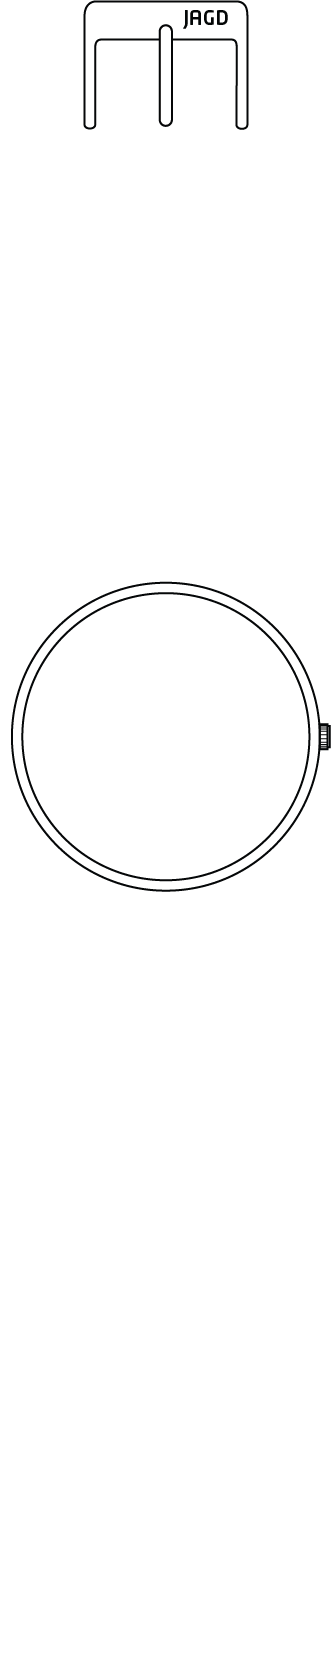
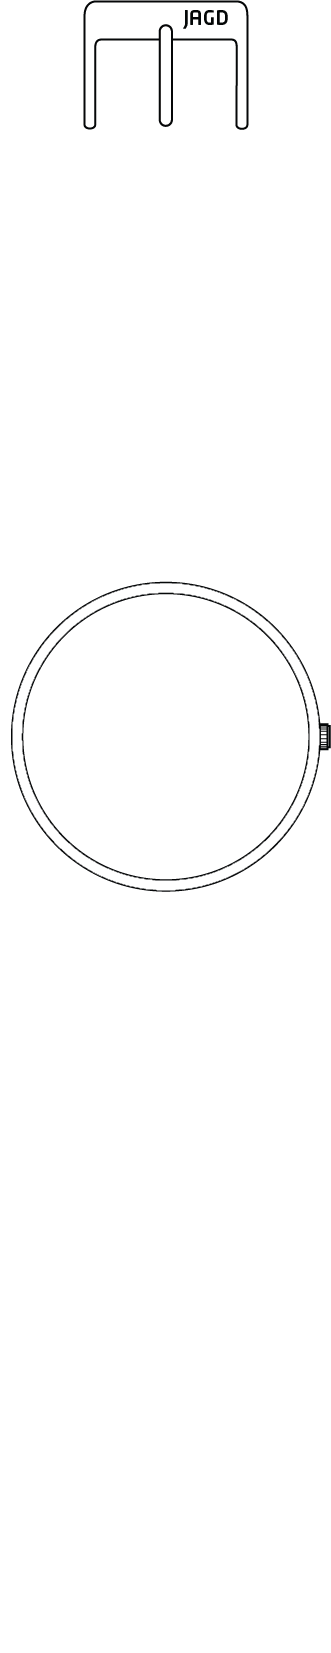
Added loader overlay, fixed outline images, and added backside in full view dialog

diff --git a/js/watchBuilder.js b/js/watchBuilder.js
@@ -19,6 +19,8 @@ WatchBuilder = (function($) {
 
     var builder = {
 
+        newUser: true,
+
         el: {},
 
         variables: {
@@ -113,8 +115,8 @@ WatchBuilder = (function($) {
             self.handleCookieNotice();
             if(Cookies.get('userID') == undefined){
                 Cookies.set('userID', generateUUID(), {expires: 30, path: '/'});
-                self.animateIntro();
             } else {
+                self.newUser = false;
                 self.enterStep1();
             }
         },
@@ -795,22 +797,23 @@ WatchBuilder = (function($) {
 
         animateIntro: function () {
             var self = builder;
-
-            var func = function () {
-                var i = 0;
-                var innerFunc = function () {
-                    self.el.rightArrow.trigger('click');
-                    i++;
-                    if(i < self.variables.introNoOfChanges){
-                        setTimeout(innerFunc, self.variables.introChangeInterval);
-                    } else {
-                        self.enterStep1();
-                    }
+            if(self.newUser) {
+                var func = function () {
+                    var i = 0;
+                    var innerFunc = function () {
+                        self.el.rightArrow.trigger('click');
+                        i++;
+                        if (i < self.variables.introNoOfChanges) {
+                            setTimeout(innerFunc, self.variables.introChangeInterval);
+                        } else {
+                            self.enterStep1();
+                        }
+                    };
+                    innerFunc();
                 };
-                innerFunc();
-            };
 
-            setTimeout(func, self.variables.introDelay);
+                setTimeout(func, self.variables.introDelay);
+            }
         },
 
         handleCookieNotice: function () {
@@ -843,6 +846,10 @@ WatchBuilder = (function($) {
 
         positionFooter: function() {
             builder.positionFooter();
+        },
+
+        startIntro: function(){
+            builder.animateIntro();
         }
     };
 

diff --git a/css/style.css b/css/style.css
@@ -915,6 +915,15 @@ body, html {
     display: table-cell;
 }
 
+#cover {
+    position: fixed;
+    width: 100%;
+    height: 100%;
+    opacity: 0.99;
+    z-index: 20000;
+    background: white url("../images/spinner-1.gif") center center no-repeat;
+}
+
 /**************************/
 /* Containers             */
 /**************************/
@@ -1801,20 +1810,24 @@ a.fancybox {
     height: 100%;
     width: auto;
     top: 0;
-    left: 35%;
+    left: 10%;
 }
 
 .fullViewContainer .watchElement.step2WatchElement {
     width: 26%;
     height: auto;
     top: 223px;
-    left: 37.5%;
+    left: 12.5%;
 }
 
 .fullViewContainer .watchElement.watchPattern {
     height: 114px;
     top: 218px;
-    left: 145px;
+    left: 45px;
+}
+
+.fullViewContainer .watchElement.backElement {
+    left: 60%;
 }
 
 .ui-dialog {

diff --git a/js/builder.js b/js/builder.js
@@ -21,6 +21,8 @@ $(function(){
             alwaysShowScrollbar: 2,
             autoDraggerLength: true
         });
+        $('#cover').hide();
+        WatchBuilder.startIntro();
     });
 
     $(window).bind("load", function() {

diff --git a/watchBuilder.php b/watchBuilder.php
@@ -646,6 +646,27 @@ include("phpScripts/Preprocessing.php");
             }
             ?>
         </div>
+        <div class="watchElementContainer">
+            <?php
+            foreach($watchCaseBackMains as $main){
+                echo "<img src='$main' class='watchCase watchElement largeWatchElement backElement' data-partType='" . pathinfo($main,PATHINFO_FILENAME) . "'>";
+            }
+            ?>
+        </div>
+        <div class="watchElementContainer">
+            <?php
+            foreach($watchStrapEndingsMains as $main){
+                echo "<img src='$main' class='watchStrap watchElement largeWatchElement backElement' data-partType='" . pathinfo($main,PATHINFO_FILENAME) . "'>";
+            }
+            ?>
+        </div>
+        <div class="watchElementContainer">
+            <?php
+            foreach($watchStrapMains as $main){
+                echo "<img src='$main' class='watchStrap watchElement largeWatchElement backElement' data-partType='" . pathinfo($main,PATHINFO_FILENAME) . "'>";
+            }
+            ?>
+        </div>
     </div>
 
 </div>
@@ -656,6 +677,9 @@ include("phpScripts/Preprocessing.php");
 
 <div id="invalidSelectionsModal" title="INVALID SELECTIONS">
     <p>You must choose a <b>strap</b> and a <b>watch casing</b> in order to continue</p>
+</div>
+
+<div id="cover">
 </div>
 </body>
 </html>

diff --git a/phpScripts/Preprocessing.php b/phpScripts/Preprocessing.php
@@ -10,7 +10,9 @@ $db = $dataBase->getConnection();
 
 
 $util->getFolderPaths($watchCaseFolder, $watchCaseMainFolder, $watchStrapFolder, $watchStrapMainFolder, $watchHandsFolder, $watchHandsMainFolder, $watchDialFolder, $watchDialMainFolder, $patternFolder, $patternMainFolder, $watchNumeralsFolder, $watchNumeralsMainFolder, $watchIndexFolder, $watchIndexMainFolder, $watchMarkerFolder, $watchMarkerMainFolder);
-
+//Watch back folder paths
+$watchCaseBackMainFolder = "images/WatchBuilder/WatchCaseBacks/";
+$watchStrapEndingsMainFolder = "images/WatchBuilder/StrapEndings/";
 
 //find all files, and put them in arrays
 $watchCaseThumbnails = glob($watchCaseFolder . "*.png");
@@ -33,6 +35,8 @@ $watchIndexMains = glob($watchIndexMainFolder . "*.png");
 $watchMarkerThumbnails = glob($watchMarkerFolder . "*.png");
 $watchMarkerThumbnails = moveValueByIndex($watchMarkerThumbnails, $watchMarkerFolder . "None.png");
 $watchMarkerMains = glob($watchMarkerMainFolder . "*.png");
+$watchCaseBackMains = glob($watchCaseBackMainFolder . "*.png");
+$watchStrapEndingsMains = glob($watchStrapEndingsMainFolder . "*.png");
 
 /**
  * 1: Plain dial
